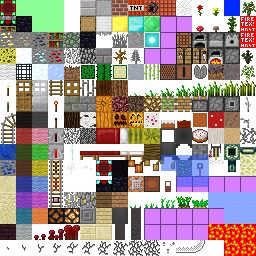
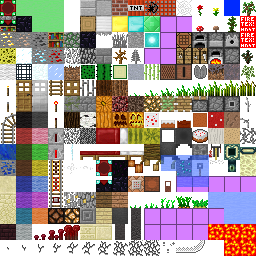
Added the experience liquid.

Changed region(s): [[0.0625, 0.0, 0.25, 0.125]]

diff --git a/hea3ven/advenchanting/common/TileEntityAdvancedEnchantmentTable.java b/hea3ven/advenchanting/common/TileEntityAdvancedEnchantmentTable.java
@@ -26,14 +26,12 @@ public class TileEntityAdvancedEnchantmentTable extends TileEntity implements
 	private Random rand = new Random();
 	private int progress;
 	private int enchantmentLevel;
-	private int experience;
 	private LiquidTank experienceTank;
 
 	public TileEntityAdvancedEnchantmentTable() {
 		inv = new ItemStack[2];
 		progress = 0;
 		enchantmentLevel = 1;
-		experience = 0;
 		experienceTank = new LiquidTank(852 * 3);
 	}
 
@@ -118,11 +116,11 @@ public class TileEntityAdvancedEnchantmentTable extends TileEntity implements
 				inv[slot] = ItemStack.loadItemStackFromNBT(tag);
 			}
 		}
-		progress = tagCompound.getShort("Progress");
-		enchantmentLevel = tagCompound.getShort("EnchantmentLevel");
-		experience = tagCompound.getInteger("Experience");
-		experienceTank
-				.fill(new LiquidStack(Block.waterStill, experience), true);
+		progress = tagCompound.getShort("progress");
+		enchantmentLevel = tagCompound.getShort("enchantmentLevel");
+		if (tagCompound.hasKey("experienceTank")) {
+			experienceTank.setLiquid(LiquidStack.loadLiquidStackFromNBT(tagCompound.getCompoundTag("experienceTank")));
+		}
 	}
 
 	@Override
@@ -140,9 +138,11 @@ public class TileEntityAdvancedEnchantmentTable extends TileEntity implements
 			}
 		}
 		tagCompound.setTag("Inventory", itemList);
-		tagCompound.setShort("Progress", (short) progress);
-		tagCompound.setShort("EnchantmentLevel", (short) enchantmentLevel);
-		tagCompound.setInteger("Experience", experience);
+		tagCompound.setShort("progress", (short) progress);
+		tagCompound.setShort("enchantmentLevel", (short) enchantmentLevel);
+		if (experienceTank.getLiquid() != null) {
+			tagCompound.setTag("experienceTank", experienceTank.getLiquid().writeToNBT(new NBTTagCompound()));
+		}
 	}
 
 	@Override
@@ -153,7 +153,7 @@ public class TileEntityAdvancedEnchantmentTable extends TileEntity implements
 				if (progress >= 100) {
 					progress = 0;
 
-					experience -= enchantmentLevel;
+					setExperience(getExperience() - enchantmentLevel);
 
 					ItemStack item = inv[0];
 					List enchantmentsList = EnchantmentHelper
@@ -199,7 +199,8 @@ public class TileEntityAdvancedEnchantmentTable extends TileEntity implements
 	}
 
 	public boolean canEnchant() {
-		return experience > enchantmentLevel;
+		LiquidStack liquid = experienceTank.getLiquid();
+		return liquid != null && liquid.amount > enchantmentLevel;
 	}
 
 	public int getProgressScaled(int i) {
@@ -227,10 +228,6 @@ public class TileEntityAdvancedEnchantmentTable extends TileEntity implements
 			this.enchantmentLevel = enchantmentLevel;
 	}
 
-	public void addExperience(int experience) {
-		this.experience += experience;
-	}
-
 	public int getExperience() {
 		LiquidStack liquid = experienceTank.getLiquid();
 		if (liquid != null)
@@ -240,23 +237,19 @@ public class TileEntityAdvancedEnchantmentTable extends TileEntity implements
 	}
 
 	public void setExperience(int experience) {
-		this.experience = experience;
 		LiquidStack liquid = this.experienceTank.getLiquid();
 		if (liquid != null) {
-			if (liquid.amount > this.experience)
-				this.experienceTank.drain(liquid.amount - experience, true);
-			else
-				this.experienceTank.fill(new LiquidStack(Block.waterStill,
-						experience - liquid.amount), true);
+			liquid.amount = experience;
 		} else {
-			this.experienceTank.fill(new LiquidStack(Block.waterStill,
-					experience), true);
+			this.experienceTank.setLiquid(new LiquidStack(AdvancedEnchantingMod.experienceLiquidStill.blockID,
+					experience));
 		}
 	}
 
 	@Override
 	public int fill(ForgeDirection from, LiquidStack resource, boolean doFill) {
-		experience = getExperience();
+		if(resource.itemID  != AdvancedEnchantingMod.experienceLiquidStill.blockID)
+			return 0;
 		return experienceTank.fill(resource, doFill);
 	}
 

diff --git a/hea3ven/advenchanting/client/GuiAdvancedEnchantmentTable.java b/hea3ven/advenchanting/client/GuiAdvancedEnchantmentTable.java
@@ -27,15 +27,17 @@ public class GuiAdvancedEnchantmentTable extends GuiContainer {
 				new ContainerAdvancedEnchantmentTable(inventoryPlayer,
 						tileEntity));
 		tileEntityAdvEnchTable = tileEntity;
+		xSize = 200;
+		ySize = 177;
 	}
 
 	@Override
 	public void initGui() {
 		super.initGui();
-		addLevelButton = new GuiButton(1, guiLeft + 30, guiTop + 50, 20, 20,
+		addLevelButton = new GuiButton(1, guiLeft + 30, guiTop + 60, 20, 20,
 				"-");
 		controlList.add(addLevelButton);
-		substractLevelButton = new GuiButton(2, guiLeft + 80, guiTop + 50, 20,
+		substractLevelButton = new GuiButton(2, guiLeft + 80, guiTop + 60, 20,
 				20, "+");
 		controlList.add(substractLevelButton);
 		addExperienceButton = new GuiButton(3, guiLeft + 114, guiTop + 60, 50,
@@ -48,11 +50,11 @@ public class GuiAdvancedEnchantmentTable extends GuiContainer {
 		// draw text and stuff here
 		// the parameters for drawString are: string, x, y, color
 		fontRenderer.drawString("Adv. Enchantment Table", 8, 6, 4210752);
-		fontRenderer.drawString("Enchantment Level:", 8, 40, 4210752);
-		if(tileEntityAdvEnchTable.getEnchantmentLevel() >= 10)
-			fontRenderer.drawString(Integer.toString(tileEntityAdvEnchTable.getEnchantmentLevel()), 60, 55, 4210752);
-		else
-			fontRenderer.drawString(Integer.toString(tileEntityAdvEnchTable.getEnchantmentLevel()), 64, 55, 4210752);
+		fontRenderer.drawString("Enchantment Level:", 8, 50, 4210752);
+		int pad = 0;
+		if(tileEntityAdvEnchTable.getEnchantmentLevel() < 10)
+			pad = 4;
+		fontRenderer.drawString(Integer.toString(tileEntityAdvEnchTable.getEnchantmentLevel()), 60 + pad, 65, 4210752);
 		fontRenderer.drawString(Integer.toString(tileEntityAdvEnchTable.getExperience()), 130, 50, 4210752);
 		// draws "Inventory" or your regional equivalent
 		fontRenderer.drawString(

diff --git a/hea3ven/advenchanting/common/AdvancedEnchantingMod.java b/hea3ven/advenchanting/common/AdvancedEnchantingMod.java
@@ -3,6 +3,7 @@ package hea3ven.advenchanting.common;
 import hea3ven.advenchanting.client.GuiHandler;
 
 import net.minecraft.block.Block;
+import net.minecraft.block.material.Material;
 import net.minecraft.item.Item;
 import net.minecraft.item.ItemStack;
 import cpw.mods.fml.common.Mod;
@@ -30,6 +31,8 @@ public class AdvancedEnchantingMod {
 
 	public final static BlockAdvancedEnchantmentTable advancedEnchantmentTableBlock = new BlockAdvancedEnchantmentTable(
 			2000);
+	public final static BlockExperienceLiquidStill experienceLiquidStill = new BlockExperienceLiquidStill(2001, Material.water);
+	public final static BlockExperienceLiquidFlowing experienceLiquidFlowing = new BlockExperienceLiquidFlowing(2002, Material.water);
 
 	@PreInit
 	public void preInit(FMLPreInitializationEvent event) {
@@ -49,6 +52,10 @@ public class AdvancedEnchantingMod {
 		GameRegistry.registerTileEntity(
 				TileEntityAdvancedEnchantmentTable.class,
 				"containerAdvancedEnchantmentTable");
+		
+		GameRegistry.registerBlock(experienceLiquidStill, "experienceLiquidStill");
+		GameRegistry.registerBlock(experienceLiquidFlowing, "experienceLiquidMoving");
+		
 		NetworkRegistry.instance().registerGuiHandler(this, new GuiHandler());
 		GameRegistry.addRecipe(advancedEnchantmentTableStack, "xxx", "xyx",
 				"zrz", 'x', new ItemStack(Item.book, 1), 'y', new ItemStack(

diff --git a/hea3ven/advenchanting/common/BlockExperienceLiquidStill.java b/hea3ven/advenchanting/common/BlockExperienceLiquidStill.java
@@ -1,0 +1,54 @@
+package hea3ven.advenchanting.common;
+
+import cpw.mods.fml.relauncher.Side;
+import cpw.mods.fml.relauncher.SideOnly;
+import net.minecraft.block.BlockStationary;
+import net.minecraft.block.material.Material;
+import net.minecraft.world.IBlockAccess;
+import net.minecraft.world.World;
+import net.minecraftforge.liquids.ILiquid;
+
+public class BlockExperienceLiquidStill extends BlockStationary implements
+		ILiquid {
+
+	protected BlockExperienceLiquidStill(int id, Material material) {
+		super(id, material);
+		blockIndexInTexture = 1;
+		setHardness(100F);
+		setLightOpacity(7);
+	}
+	
+	@Override
+	public String getTextureFile() {
+		return CommonProxy.BLOCK_PNG;
+	}
+	
+//	@Override
+//	@SideOnly(Side.CLIENT)
+//	public int colorMultiplier(IBlockAccess par1iBlockAccess, int par2,
+//			int par3, int par4) {
+//		return 0xFF0000;
+//	}
+
+	@Override
+	public int stillLiquidId() {
+		return AdvancedEnchantingMod.experienceLiquidStill.blockID;
+	}
+
+	@Override
+	public boolean isMetaSensitive() {
+		// TODO Auto-generated method stub
+		return false;
+	}
+
+	@Override
+	public int stillLiquidMeta() {
+		// TODO Auto-generated method stub
+		return 0;
+	}
+
+	@Override
+	public boolean isBlockReplaceable(World world, int i, int j, int k) {
+		return true;
+	}
+}

diff --git a/hea3ven/advenchanting/common/BlockExperienceLiquidFlowing.java b/hea3ven/advenchanting/common/BlockExperienceLiquidFlowing.java
@@ -1,0 +1,48 @@
+package hea3ven.advenchanting.common;
+
+import cpw.mods.fml.relauncher.Side;
+import cpw.mods.fml.relauncher.SideOnly;
+import net.minecraft.block.BlockFluid;
+import net.minecraft.block.material.Material;
+import net.minecraft.world.IBlockAccess;
+import net.minecraftforge.liquids.ILiquid;
+
+public class BlockExperienceLiquidFlowing extends BlockFluid implements ILiquid {
+
+	protected BlockExperienceLiquidFlowing(int id, Material material) {
+		super(id, material);
+		blockIndexInTexture = 1;
+		setHardness(100F);
+		setLightOpacity(7);
+	}
+
+	@Override
+	public String getTextureFile() {
+		return CommonProxy.BLOCK_PNG;
+	}
+	
+//	@Override
+//	@SideOnly(Side.CLIENT)
+//	public int colorMultiplier(IBlockAccess par1iBlockAccess, int par2,
+//			int par3, int par4) {
+//		return 0xFF0000;
+//	}
+
+	@Override
+	public int stillLiquidId() {
+		return AdvancedEnchantingMod.experienceLiquidStill.blockID;
+	}
+
+	@Override
+	public boolean isMetaSensitive() {
+		// TODO Auto-generated method stub
+		return false;
+	}
+
+	@Override
+	public int stillLiquidMeta() {
+		// TODO Auto-generated method stub
+		return 0;
+	}
+
+}

diff --git a/hea3ven/advenchanting/common/ContainerAdvancedEnchantmentTable.java b/hea3ven/advenchanting/common/ContainerAdvancedEnchantmentTable.java
@@ -27,8 +27,8 @@ public class ContainerAdvancedEnchantmentTable extends Container {
 		// the Slot constructor takes the IInventory and the slot number in that
 		// it binds to
 		// and the x-y coordinates it resides on-screen
-		addSlotToContainer(new Slot(tileEntity, 0, 56, 20));
-		addSlotToContainer(new Slot(tileEntity, 1, 116, 20));
+		addSlotToContainer(new Slot(tileEntity, 0, 32, 23));
+		addSlotToContainer(new Slot(tileEntity, 1, 92, 23));
 
 		// commonly used vanilla code that adds the player's inventory
 		bindPlayerInventory(inventoryPlayer);
@@ -43,12 +43,12 @@ public class ContainerAdvancedEnchantmentTable extends Container {
 		for (int i = 0; i < 3; i++) {
 			for (int j = 0; j < 9; j++) {
 				addSlotToContainer(new Slot(inventoryPlayer, j + i * 9 + 9,
-						8 + j * 18, 84 + i * 18));
+						20 + j * 18, 95 + i * 18));
 			}
 		}
 
 		for (int i = 0; i < 9; i++) {
-			addSlotToContainer(new Slot(inventoryPlayer, i, 8 + i * 18, 142));
+			addSlotToContainer(new Slot(inventoryPlayer, i, 20 + i * 18, 153));
 		}
 	}
 

diff --git a/hea3ven/advenchanting/common/PacketHandler.java b/hea3ven/advenchanting/common/PacketHandler.java
@@ -50,8 +50,8 @@ public class PacketHandler implements IPacketHandler {
 				if (tileEntity instanceof TileEntityAdvancedEnchantmentTable) {
 					int initialExperience = entityPlayer.experienceTotal;
 					entityPlayer.addExperienceLevel(-entityPlayer.experienceLevel - 1); // This resets the levels to 0
-					((TileEntityAdvancedEnchantmentTable) tileEntity)
-					.addExperience(initialExperience - entityPlayer.experienceTotal);
+					TileEntityAdvancedEnchantmentTable te = ((TileEntityAdvancedEnchantmentTable) tileEntity);
+					te.setExperience(te.getExperience() + initialExperience - entityPlayer.experienceTotal);
 				}
 			}
 		}

diff --git a/hea3ven/advenchanting/common/BlockAdvancedEnchantmentTable.java b/hea3ven/advenchanting/common/BlockAdvancedEnchantmentTable.java
@@ -14,7 +14,18 @@ import net.minecraft.world.World;
 public class BlockAdvancedEnchantmentTable extends BlockEnchantmentTable {
 	public BlockAdvancedEnchantmentTable(int id) {
 		super(id);
+		this.blockIndexInTexture = 0;
 		setBlockName("Advanced Enchantment Table");
+	}
+	
+	@Override
+	public String getTextureFile() {
+		return CommonProxy.BLOCK_PNG;
+	}
+	
+	@Override
+	public int getBlockTextureFromSide(int side) {
+        return side == 0 ? this.blockIndexInTexture + 17 : (side == 1 ? this.blockIndexInTexture : this.blockIndexInTexture + 16);
 	}
 
 	@Override

diff --git a/hea3ven/advenchanting/common/CommonProxy.java b/hea3ven/advenchanting/common/CommonProxy.java
@@ -1,8 +1,8 @@
 package hea3ven.advenchanting.common;
 
 public class CommonProxy {
-	public static String ITEMS_PNG = "/tutorial/generic/items.png";
-	public static String BLOCK_PNG = "/tutorial/generic/items.png";
+	public static String ITEMS_PNG = "/hea3ven/advenchanting/items.png";
+	public static String BLOCK_PNG = "/hea3ven/advenchanting/terrain.png";
 
 	// Client stuff
 	public void registerRenderers() {
